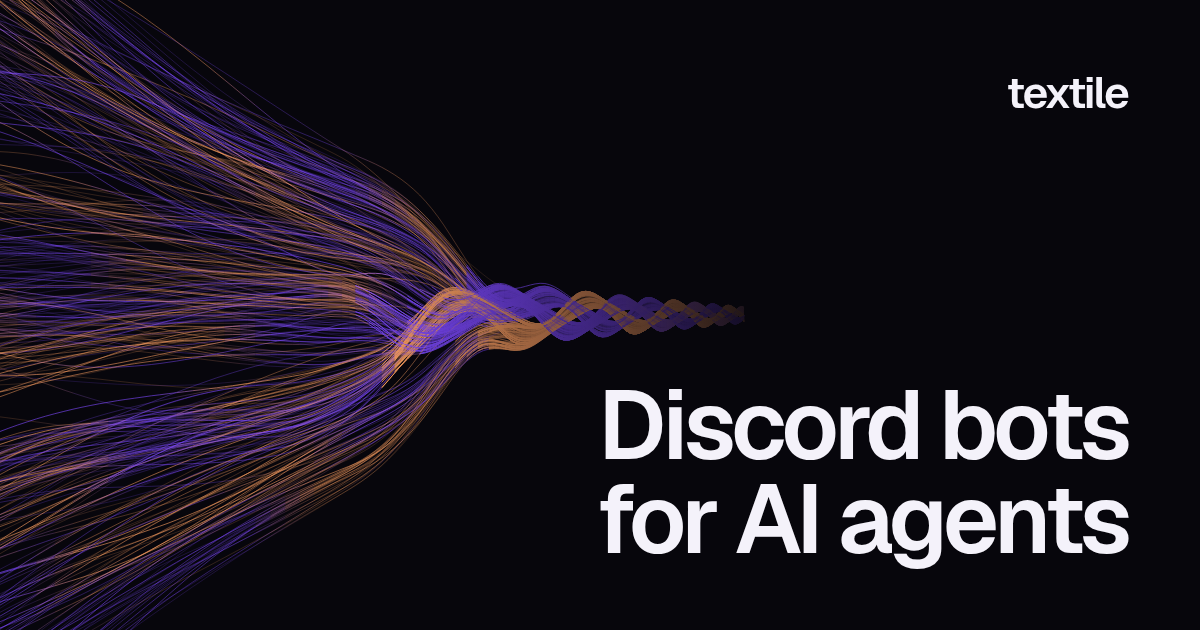
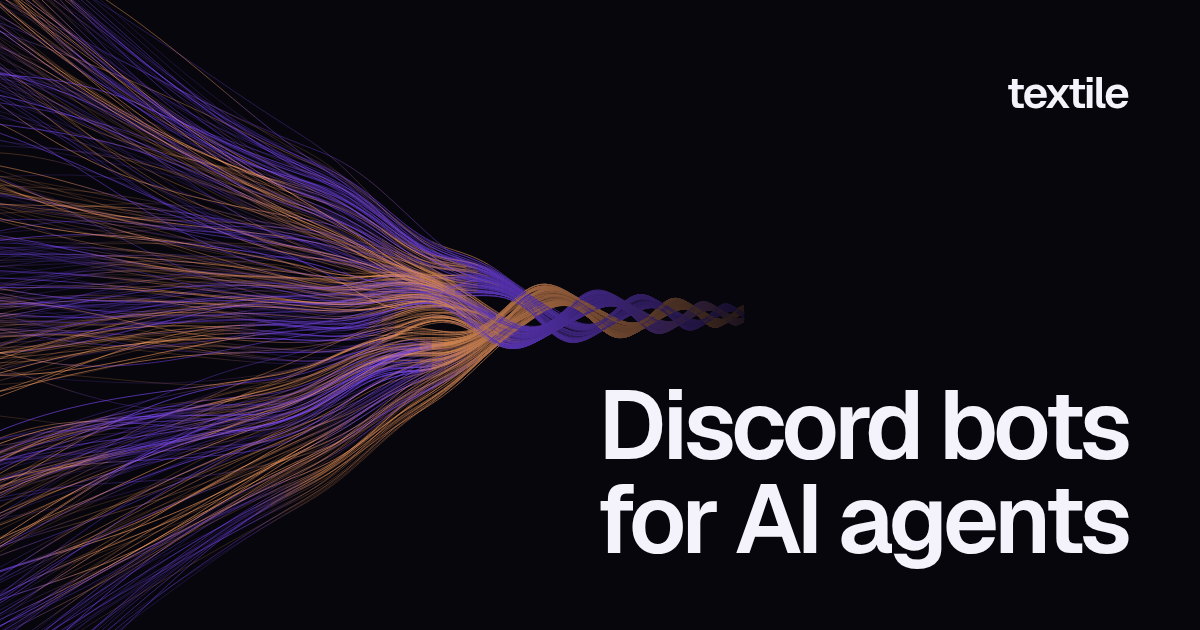
fix(web): the social card and the 2D braid ease into their strands' colours without seams
With the braid forming over a shorter stretch, many threads switched to their strand's colour at once, and the 2D
renderers' all-or-nothing switch lined up into blocks. They now ease colour and light into the braid as the shaders do.
The social card is redrawn with the looser braid.

Changed region(s): [[0.0, 0.0, 0.6167, 1.0]]

diff --git a/apps/web/src/lib/threads/renderer.ts b/apps/web/src/lib/threads/renderer.ts
@@ -1,7 +1,7 @@
 import {
   along,
   brightness,
-  CROWD,
+  ease,
   type Field,
   MAX_LABELS,
   position,
@@ -129,23 +129,14 @@ export function still(canvas: HTMLCanvasElement): Renderer | undefined {
       const count = Math.min(field.count, STILL_THREADS)
       for (let i = 0; i < count; i++) {
         const { joins, join } = thread(field, i)
-        // From halfway into the braid, a thread gives less light, as hundreds share it. `into` is the point there:
-        // `along` inverted.
-        const into = Math.ceil((1 - (1 - (joins - join / 2)) ** (1 / CROWD)) * STILL_SEGMENTS)
-        // In short pieces, so its colour follows the gradient along it.
+        // In short pieces, so its colour follows the gradient along it. As it joins the braid it eases into its
+        // strand's colour and gives less light, as hundreds share it there.
         for (let s = 0; s < STILL_SEGMENTS; s += STILL_PIECE) {
           const to = Math.min(s + STILL_PIECE, STILL_SEGMENTS)
-          const braided = s >= into ? 1 : 0
-          const colour = blend(
-            warmth(field, i, along((s + to) / 2 / STILL_SEGMENTS), time, braided),
-          )
-          stroke(
-            i,
-            s,
-            to,
-            colour,
-            0.8 * brightness(field, i, braided) * field.intensity * (braided ? BRAID_STILL : 1),
-          )
+          const u = along((s + to) / 2 / STILL_SEGMENTS)
+          const braided = ease(joins - join, joins, u)
+          const light = brightness(field, i, braided) * (1 + (BRAID_STILL - 1) * braided)
+          stroke(i, s, to, blend(warmth(field, i, u, time, braided)), 0.8 * light * field.intensity)
         }
       }
       // The flare where the cord ends.

diff --git a/apps/web/scripts/og.ts b/apps/web/scripts/og.ts
@@ -10,6 +10,7 @@ import { fileURLToPath } from 'node:url'
 import {
   along,
   brightness,
+  ease,
   type Field,
   position,
   thread,
@@ -47,13 +48,12 @@ const threads = Array.from({ length: field.count }, (_, i) => {
   const points = Array.from({ length: POINTS + 1 }, (_, s) =>
     position(field, i, along(s / POINTS), STILL_TIME),
   )
-  // From halfway into the braid on, a thread is braided: it takes its strand's colour and its band's light.
+  // As a thread joins the braid it eases into its strand's colour and its band's light, as the shaders do.
   const { joins, join } = thread(field, i)
-  const into = joins - join / 2
   return Array.from({ length: POINTS / PIECE }, (_, n) => {
     const piece = points.slice(n * PIECE, (n + 1) * PIECE + 1)
     const u = along((n + 0.5) / (POINTS / PIECE))
-    const braided = u >= into ? 1 : 0
+    const braided = ease(joins - join, joins, u)
     const d = piece
       .map(([x, y], s) => `${s === 0 ? 'M' : 'L'}${x.toFixed(1)} ${y.toFixed(1)}`)
       .join('')
